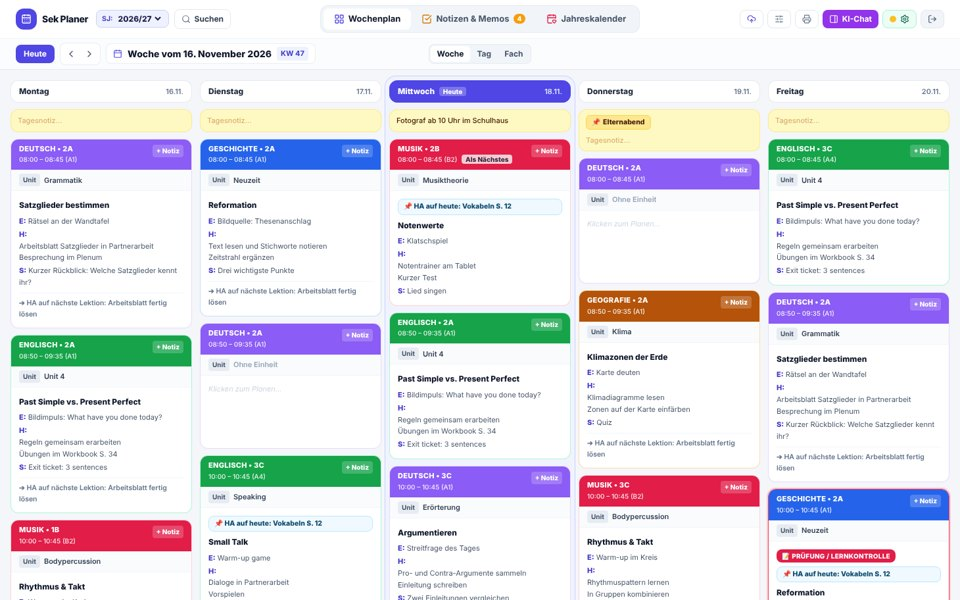
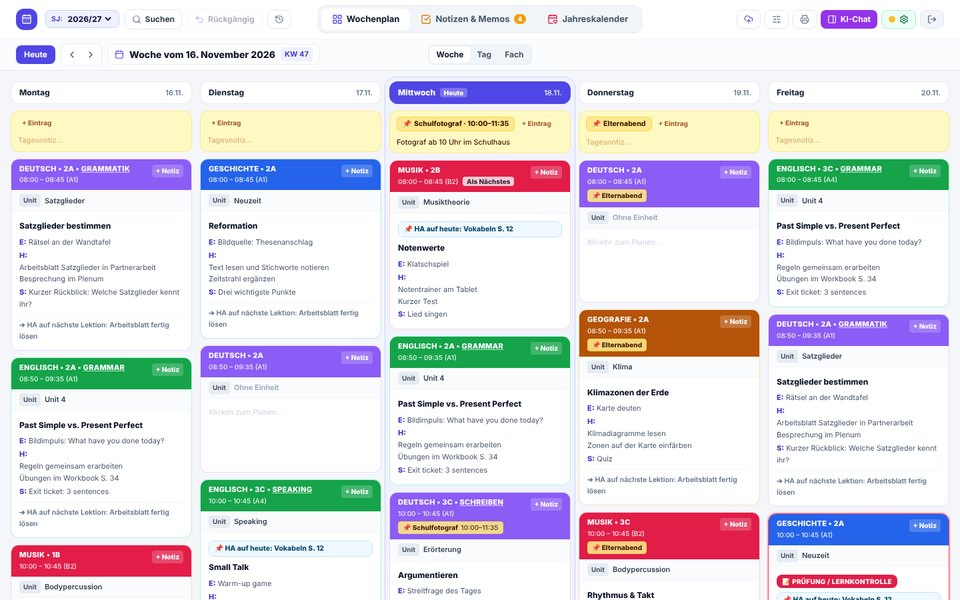
Sek Planer: Beschreibung und Vorschau für Version 20
Claude-Session: https://claude.ai/code/session_01FbAUqtxqqqp61UBGL73Yem

diff --git a/index.html b/index.html
@@ -136,7 +136,7 @@
         <a class="preview" href="https://novarion-desk.github.io/sek-planer/" tabindex="-1" aria-hidden="true"><img src="img/sek-planer.jpg" alt="" loading="lazy" width="960" height="600"></a>
         <div class="body">
           <div class="title"><img src="icons/sek-planer.png" alt=""><h3>Sek Planer</h3></div>
-          <p class="desc">Wochen- und Jahresplanung für Lektionen: Einstieg, Hauptteil, Schluss, Hausaufgaben, Pendenzen und Sprachmemos. Fach-Ansicht zum Vergleichen der Klassen, Stellvertretungsdruck, synchron auf Handy und Computer.</p>
+          <p class="desc">Wochen- und Jahresplanung für Lektionen: Einstieg, Hauptteil, Schluss, Hausaufgaben, Pendenzen und Sprachmemos. Fach-Ansicht mit Gefäss-Filter zum Vergleichen der Klassen, Lektionen verschieben, Änderungsverlauf mit Rückgängig, Stellvertretungsdruck, synchron auf Handy und Computer.</p>
           <ul class="tags"><li class="t-teacher">Lehrpersonen</li><li>Alle Fächer</li><li class="t-invite">Invite only · Demo frei</li></ul>
           <div class="actions">
             <a class="btn btn-demo" href="https://novarion-desk.github.io/sek-planer/?demo">Demo ansehen</a>
